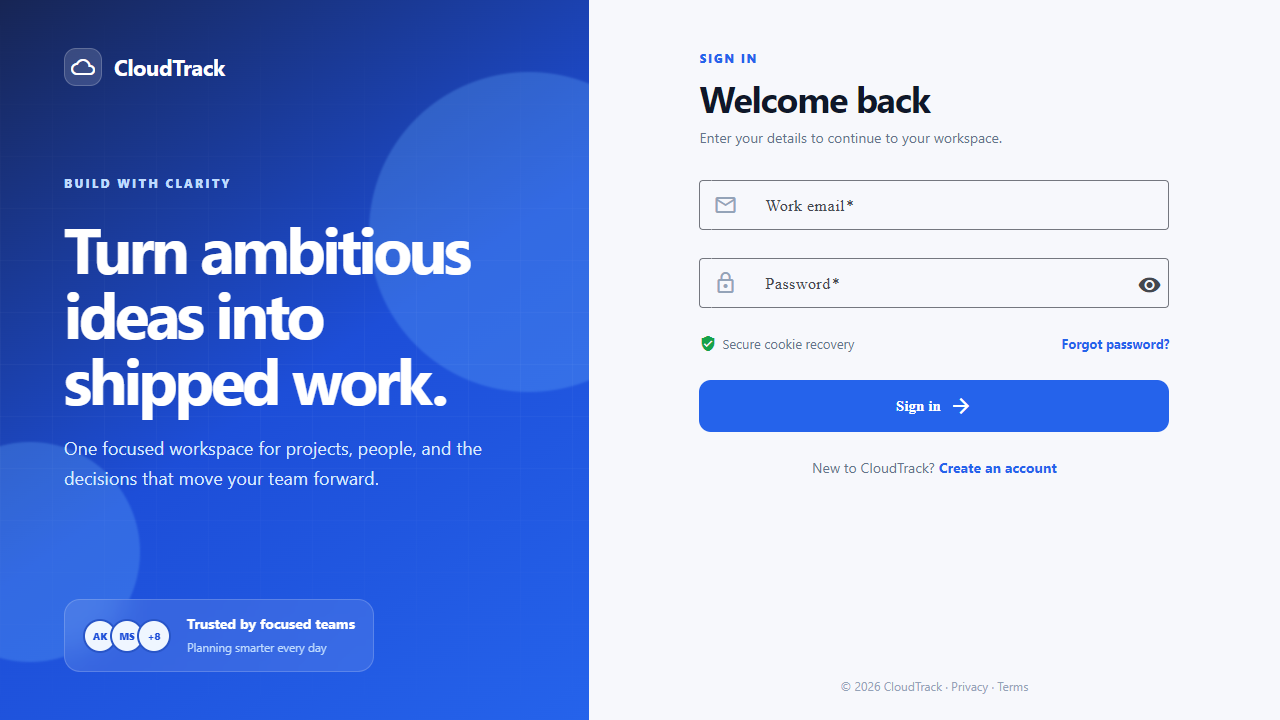
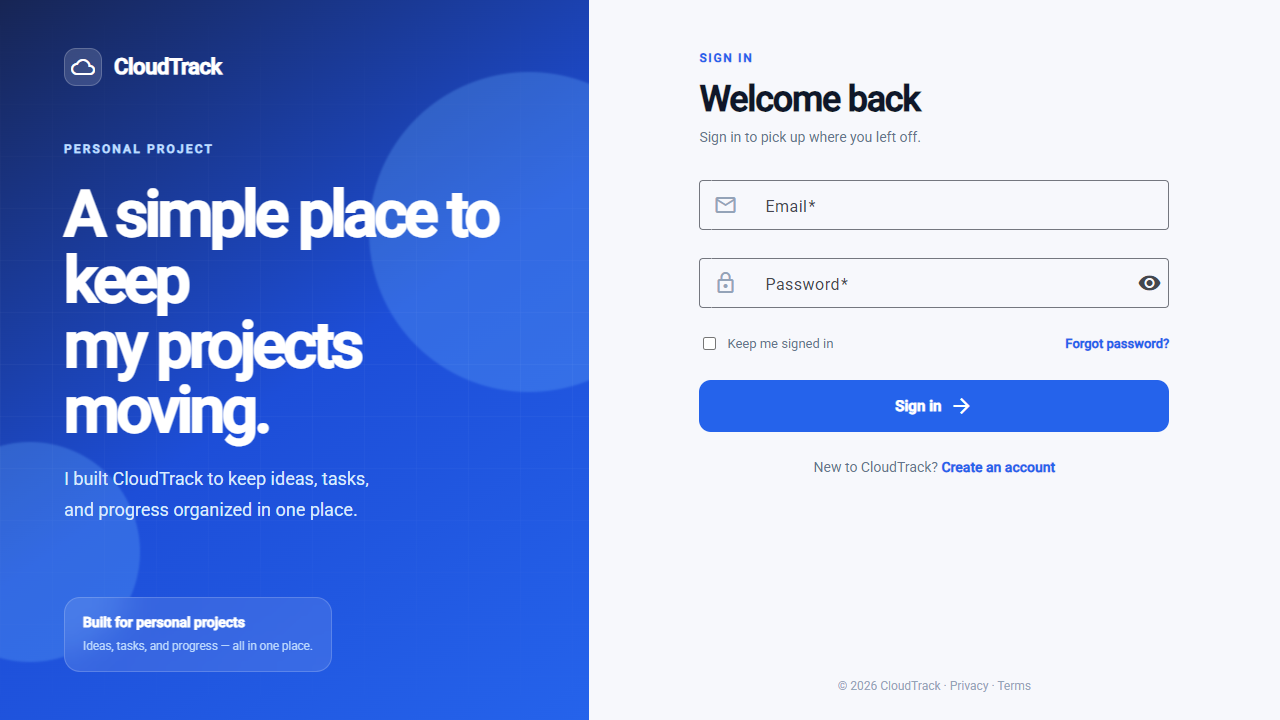
feat: personalize login page content

diff --git a/frontend/src/app/features/auth/auth-page.ts b/frontend/src/app/features/auth/auth-page.ts
@@ -62,12 +62,12 @@ type AuthMode = 'login' | 'register' | 'forgot' | 'reset';
 
         @if (mode() !== 'reset') {
           <mat-form-field appearance="outline">
-            <mat-label>Work email</mat-label><mat-icon matPrefix>mail_outline</mat-icon>
+            <mat-label>Email</mat-label><mat-icon matPrefix>mail_outline</mat-icon>
             <input
               matInput
               formControlName="email"
               autocomplete="email"
-              placeholder="you@company.com"
+              placeholder="you@example.com"
             />
             @if (form.controls.email.touched && form.controls.email.invalid) {
               <mat-error>Enter a valid email address</mat-error>
@@ -107,9 +107,43 @@ type AuthMode = 'login' | 'register' | 'forgot' | 'reset';
           </mat-form-field>
         }
 
+        @if (mode() === 'register') {
+          <mat-form-field appearance="outline">
+            <mat-label>Confirm password</mat-label><mat-icon matPrefix>lock_reset</mat-icon>
+            <input
+              matInput
+              [type]="showConfirmPassword() ? 'text' : 'password'"
+              formControlName="confirmPassword"
+              autocomplete="new-password"
+            />
+            <button
+              mat-icon-button
+              matSuffix
+              type="button"
+              (click)="showConfirmPassword.set(!showConfirmPassword())"
+              [attr.aria-label]="
+                showConfirmPassword() ? 'Hide confirm password' : 'Show confirm password'
+              "
+            >
+              <mat-icon>{{ showConfirmPassword() ? 'visibility_off' : 'visibility' }}</mat-icon>
+            </button>
+            @if (
+              form.controls.confirmPassword.touched &&
+              form.controls.confirmPassword.hasError('required')
+            ) {
+              <mat-error>Confirm your password</mat-error>
+            } @else if (
+              form.controls.confirmPassword.touched &&
+              form.controls.confirmPassword.hasError('passwordMismatch')
+            ) {
+              <mat-error>Passwords do not match</mat-error>
+            }
+          </mat-form-field>
+        }
+
         @if (mode() === 'login') {
           <div class="form-meta">
-            <span><mat-icon>verified_user</mat-icon> Secure cookie recovery</span
+            <label><input type="checkbox" /> Keep me signed in</label
             ><a routerLink="/auth/forgot-password">Forgot password?</a>
           </div>
         }
@@ -204,16 +238,13 @@ type AuthMode = 'login' | 'register' | 'forgot' | 'reset';
       color: #64748b;
       font-size: 13px;
     }
-    .form-meta span {
+    .form-meta label {
       display: flex;
       align-items: center;
-      gap: 6px;
+      gap: 8px;
     }
-    .form-meta mat-icon {
-      width: 17px;
-      height: 17px;
-      font-size: 17px;
-      color: #16a34a;
+    input[type='checkbox'] {
+      accent-color: #2563eb;
     }
     a {
       color: #2563eb;
@@ -300,6 +331,7 @@ export class AuthPage {
   readonly success = signal('');
   readonly developmentToken = signal('');
   readonly showPassword = signal(false);
+  readonly showConfirmPassword = signal(false);
   readonly title = computed(
     () =>
       ({
@@ -321,7 +353,7 @@ export class AuthPage {
   readonly subtitle = computed(
     () =>
       ({
-        login: 'Enter your details to continue to your workspace.',
+        login: 'Sign in to pick up where you left off.',
         register: 'Start organizing projects in less than a minute.',
         forgot: 'We’ll prepare a secure reset link if the account exists.',
         reset: 'Use the reset token and choose a strong new password.',
@@ -341,13 +373,24 @@ export class AuthPage {
     displayName: ['', [Validators.required, Validators.minLength(2)]],
     email: ['', [Validators.required, Validators.email]],
     password: ['', [Validators.required, Validators.minLength(8)]],
+    confirmPassword: ['', Validators.required],
     token: [this.route.snapshot.queryParamMap.get('token') ?? '', Validators.required],
   });
 
   submit(): void {
+    const value = this.form.getRawValue();
+    const confirmPassword = this.form.controls.confirmPassword;
+    if (this.mode() === 'register' && value.password !== value.confirmPassword) {
+      confirmPassword.setErrors({ ...confirmPassword.errors, passwordMismatch: true });
+    } else if (confirmPassword.hasError('passwordMismatch')) {
+      const { passwordMismatch: _passwordMismatch, ...remainingErrors } =
+        confirmPassword.errors ?? {};
+      confirmPassword.setErrors(Object.keys(remainingErrors).length ? remainingErrors : null);
+    }
+
     const requiredControls =
       this.mode() === 'register'
-        ? ['displayName', 'email', 'password']
+        ? ['displayName', 'email', 'password', 'confirmPassword']
         : this.mode() === 'forgot'
           ? ['email']
           : this.mode() === 'reset'
@@ -361,7 +404,6 @@ export class AuthPage {
     this.loading.set(true);
     this.error.set('');
     this.success.set('');
-    const value = this.form.getRawValue();
     const request: Observable<
       AuthResponse | { message: string; developmentResetToken?: string } | void
     > =

diff --git a/frontend/src/app/layouts/public-layout.ts b/frontend/src/app/layouts/public-layout.ts
@@ -13,15 +13,18 @@ import { MatIconModule } from '@angular/material/icon';
           <span>CloudTrack</span>
         </a>
         <div class="story-copy">
-          <span class="eyebrow">BUILD WITH CLARITY</span>
-          <h1>Turn ambitious ideas into shipped work.</h1>
-          <p>One focused workspace for projects, people, and the decisions that move your team forward.</p>
+          <span class="eyebrow">PERSONAL PROJECT</span>
+          <h1>A simple place to keep<br />my projects moving.</h1>
+          <p>I built CloudTrack to keep ideas, tasks,<br />and progress organized in one place.</p>
         </div>
         <div class="proof-card">
-          <div class="avatar-stack"><span>AK</span><span>MS</span><span>+8</span></div>
-          <div><strong>Trusted by focused teams</strong><small>Planning smarter every day</small></div>
+          <div>
+            <strong>Built for personal projects</strong
+            ><small>Ideas, tasks, and progress — all in one place.</small>
+          </div>
         </div>
-        <div class="orb orb-one"></div><div class="orb orb-two"></div>
+        <div class="orb orb-one"></div>
+        <div class="orb orb-two"></div>
       </section>
       <section class="form-panel">
         <router-outlet />
@@ -40,9 +43,8 @@ import { MatIconModule } from '@angular/material/icon';
     .eyebrow { font-size:12px; font-weight:800; letter-spacing:.18em; color:#bfdbfe; }
     h1 { margin:22px 0; font-size:clamp(44px,5vw,72px); line-height:1.02; letter-spacing:-.055em; }
     .story-copy p { max-width:510px; font-size:18px; line-height:1.7; color:#dbeafe; }
-    .proof-card { position:relative; z-index:2; align-self:flex-start; display:flex; align-items:center; gap:16px; padding:14px 18px; border:1px solid rgba(255,255,255,.18); border-radius:16px; background:rgba(255,255,255,.1); backdrop-filter:blur(16px); }
+    .proof-card { position:relative; z-index:2; align-self:flex-start; padding:15px 18px; border:1px solid rgba(255,255,255,.18); border-radius:16px; background:rgba(255,255,255,.1); backdrop-filter:blur(16px); }
     .proof-card strong,.proof-card small { display:block; } .proof-card small { margin-top:3px; color:#bfdbfe; }
-    .avatar-stack { display:flex; } .avatar-stack span { width:34px; height:34px; display:grid; place-items:center; margin-left:-7px; border:2px solid #2855c8; border-radius:50%; background:#eff6ff; color:#1d4ed8; font-size:10px; font-weight:800; } .avatar-stack span:first-child { margin:0; }
     .orb { position:absolute; border-radius:50%; filter:blur(1px); background:rgba(96,165,250,.32); } .orb-one { width:320px; height:320px; right:-100px; top:10%; } .orb-two { width:220px; height:220px; left:-80px; bottom:8%; }
     .form-panel { display:flex; flex-direction:column; align-items:center; justify-content:center; padding:48px 7vw 24px; }
     router-outlet { display:none; } footer { margin-top:auto; padding-top:40px; color:#94a3b8; font-size:12px; }
@@ -51,4 +53,3 @@ import { MatIconModule } from '@angular/material/icon';
   `,
 })
 export class PublicLayout {}
-

diff --git a/frontend/e2e/auth-project-flow.spec.ts b/frontend/e2e/auth-project-flow.spec.ts
@@ -7,8 +7,12 @@ test('a new user can register and create a project', async ({ page }) => {
 
   await expect(page.getByRole('heading', { name: 'Create your account' })).toBeVisible();
   await page.getByLabel('Full name').fill('Portfolio Developer');
-  await page.getByLabel('Work email').fill(email);
+  await page.getByLabel('Email').fill(email);
   await page.getByLabel('Password', { exact: true }).fill('Portfolio!234');
+  await page.getByRole('textbox', { name: 'Confirm password' }).fill('Different!234');
+  await page.getByRole('button', { name: 'Create account' }).click();
+  await expect(page.getByText('Passwords do not match')).toBeVisible();
+  await page.getByRole('textbox', { name: 'Confirm password' }).fill('Portfolio!234');
   await page.getByRole('button', { name: 'Create account' }).click();
 
   await expect(page).toHaveURL(/\/dashboard$/);
@@ -34,7 +38,23 @@ test('a new user can register and create a project', async ({ page }) => {
 
 test('auth navigation and mobile layout stay usable', async ({ page }) => {
   await page.goto('/auth/login');
+  await expect(page.getByText('PERSONAL PROJECT', { exact: true })).toBeVisible();
+  await expect(
+    page.getByRole('heading', { name: 'A simple place to keep my projects moving.' }),
+  ).toBeVisible();
+  await expect(page.locator('.story-copy p')).toContainText(
+    /I built CloudTrack to keep ideas, tasks,\s*and progress organized in one place\./,
+  );
+  await expect(page.locator('.proof-card')).toContainText('Built for personal projects');
+  await expect(page.locator('.avatar-stack')).toHaveCount(0);
   await expect(page.getByRole('heading', { name: 'Welcome back' })).toBeVisible();
+  await expect(page.getByText('Sign in to pick up where you left off.')).toBeVisible();
+  await expect(page.getByLabel('Email')).toBeVisible();
+  await expect(page.getByLabel('Email')).toHaveCSS('font-family', /Roboto/);
+  await expect(page.getByRole('button', { name: 'Sign in' })).toHaveCSS('font-family', /Roboto/);
+  await expect(page.locator('body')).not.toContainText(
+    /team|company|organization|workspace|collaboration/i,
+  );
   const viewport = test.info().project.name.startsWith('mobile') ? 'mobile' : 'desktop';
   await page.screenshot({
     path: path.join('..', 'docs', 'screenshots', `login-${viewport}.png`),

diff --git a/frontend/src/styles.scss b/frontend/src/styles.scss
@@ -13,7 +13,7 @@ html {
         primary: mat.$azure-palette,
         tertiary: mat.$blue-palette,
       ),
-      typography: Inter,
+      typography: Roboto,
       density: 0,
     )
   );
@@ -46,7 +46,15 @@ button,
 input,
 textarea,
 select {
-  font-family: Inter, ui-sans-serif, system-ui, -apple-system, BlinkMacSystemFont, "Segoe UI", sans-serif;
+  font-family:
+    Roboto,
+    Arial,
+    ui-sans-serif,
+    system-ui,
+    -apple-system,
+    BlinkMacSystemFont,
+    'Segoe UI',
+    sans-serif;
 }
 
 button,
